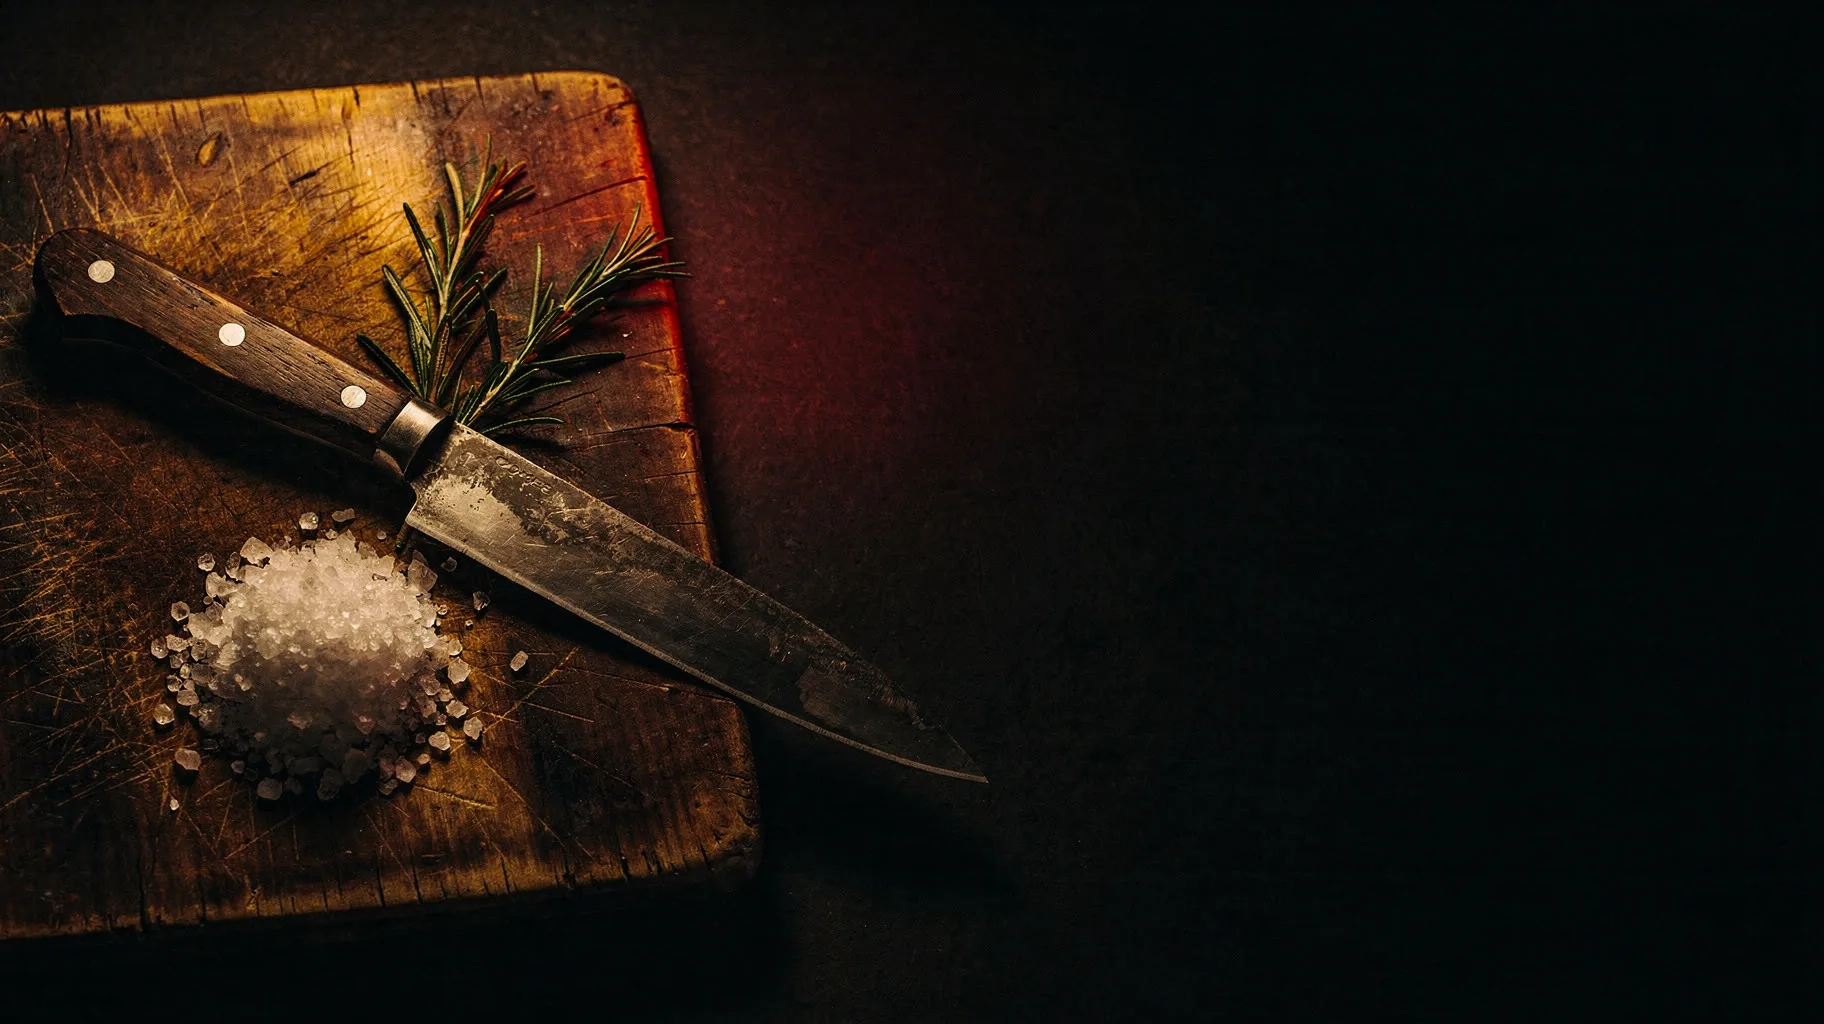
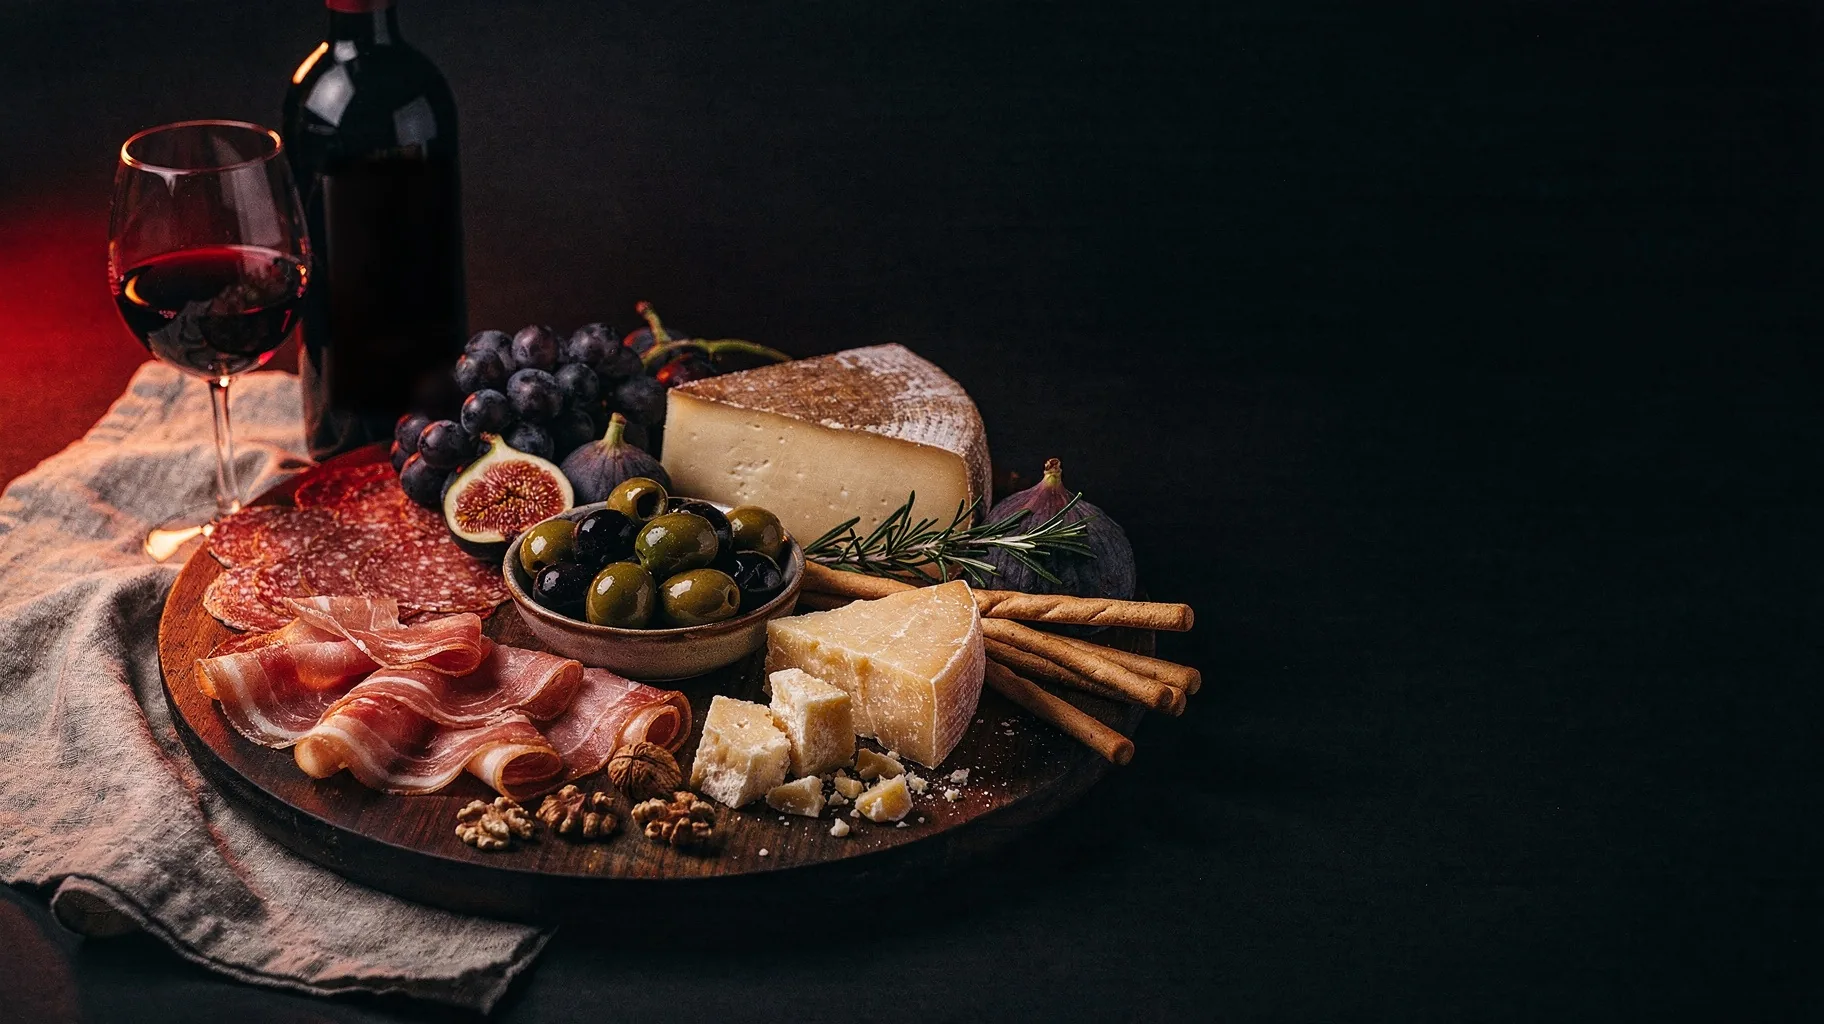
Lojas: tábua de frios com vinho como arte da seção
Claude-Session: https://claude.ai/code/session_01QkA7AWhmV5Q3SV8UzBDmbu

diff --git a/site/estilo.css b/site/estilo.css
@@ -154,6 +154,7 @@ p { margin: 0 0 1em; color: var(--texto-suave); text-wrap: pretty; }
   -webkit-mask-image: linear-gradient(to right, #000 38%, transparent 96%), linear-gradient(to bottom, transparent, #000 18%, #000 80%, transparent);
           mask-image: linear-gradient(to right, #000 38%, transparent 96%), linear-gradient(to bottom, transparent, #000 18%, #000 80%, transparent);
 }
+.arte--lojas { object-position: 14% 50%; }
 .arte--fundo {
   inset: 0; width: 100%; height: 100%; opacity: .5;
   /* closest-side: a elipse zera exatamente na borda, então nunca sobra linha reta */

diff --git a/site/index.html b/site/index.html
@@ -144,7 +144,7 @@
 
   <!-- LOJAS: imagem fundida à esquerda, unidades à direita -->
   <section id="lojas" class="secao">
-    <img class="arte arte--esquerda" src="assets/img/lojas.webp" alt="" loading="lazy">
+    <img class="arte arte--esquerda arte--lojas" src="assets/img/lojas.webp" alt="" loading="lazy">
     <div class="secao-grade secao-grade--direita">
       <div class="painel revelar">
         <span class="rotulo">05 · Quatro lojas</span>
